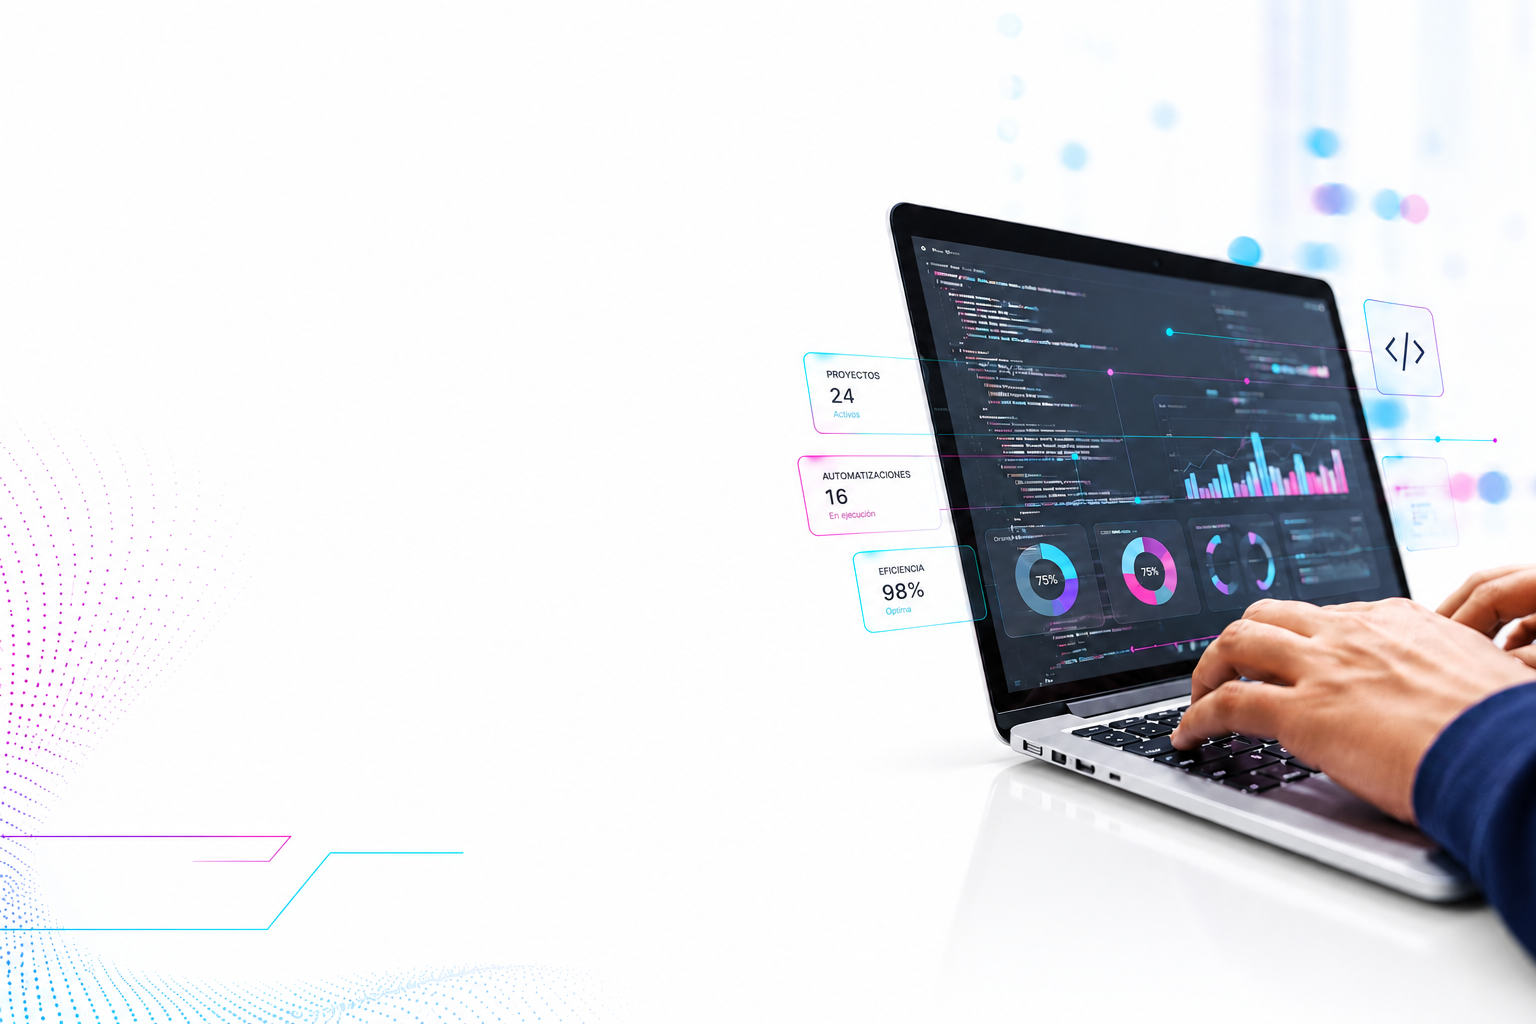
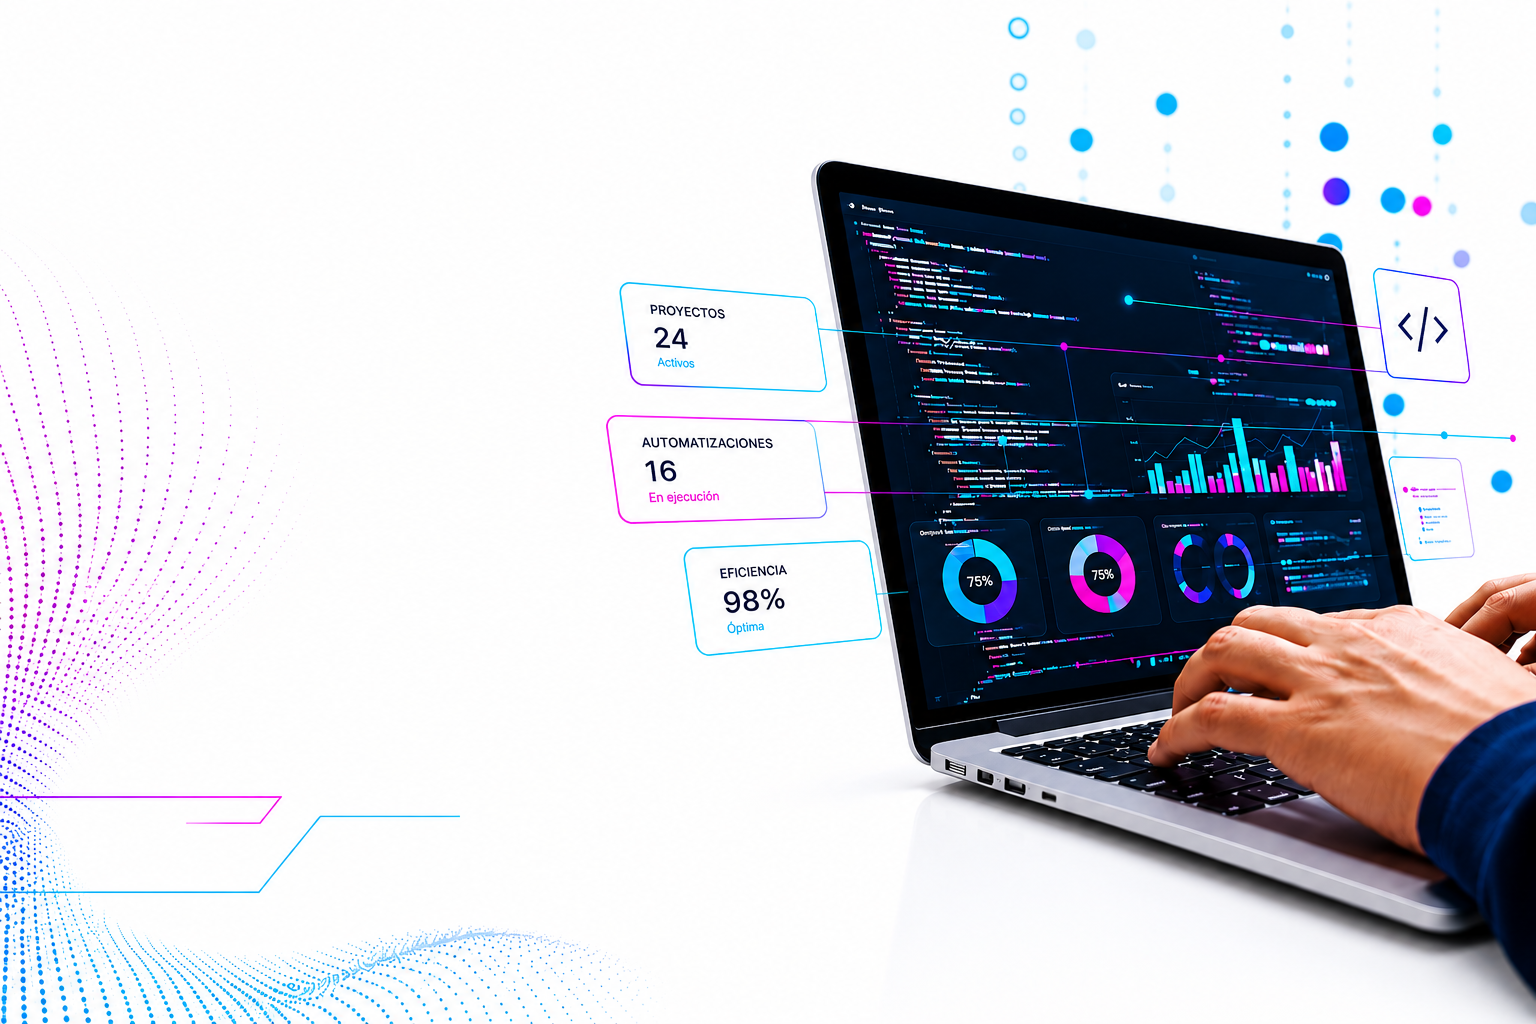
Restaura el color de 'el futuro' en el hero
El text-shadow agregado para legibilidad del titulo se heredaba a la
palabra con degradado (.hero__word--gradient) y su halo del color de
fondo apagaba el gradiente cyan-violeta-magenta. Se anula el shadow
ahi y se reemplaza por un drop-shadow violeta sutil que no lo opaca.

diff --git a/css/styles.css b/css/styles.css
@@ -478,6 +478,10 @@ body.cursor-hover .cursor-follower {
   -webkit-text-fill-color: transparent;
   background-size: 200% auto;
   animation: wordUp 1s var(--ease-out) 1.05s forwards, gradientShift 5s ease 2s infinite;
+  /* El text-shadow heredado de .hero__title apaga el degradado con un halo
+     del color de fondo; aquí lo quitamos para que se vea vivo. */
+  text-shadow: none;
+  filter: drop-shadow(0 2px 10px rgba(124, 77, 255, 0.35));
 }
 
 .hero__subtitle {
